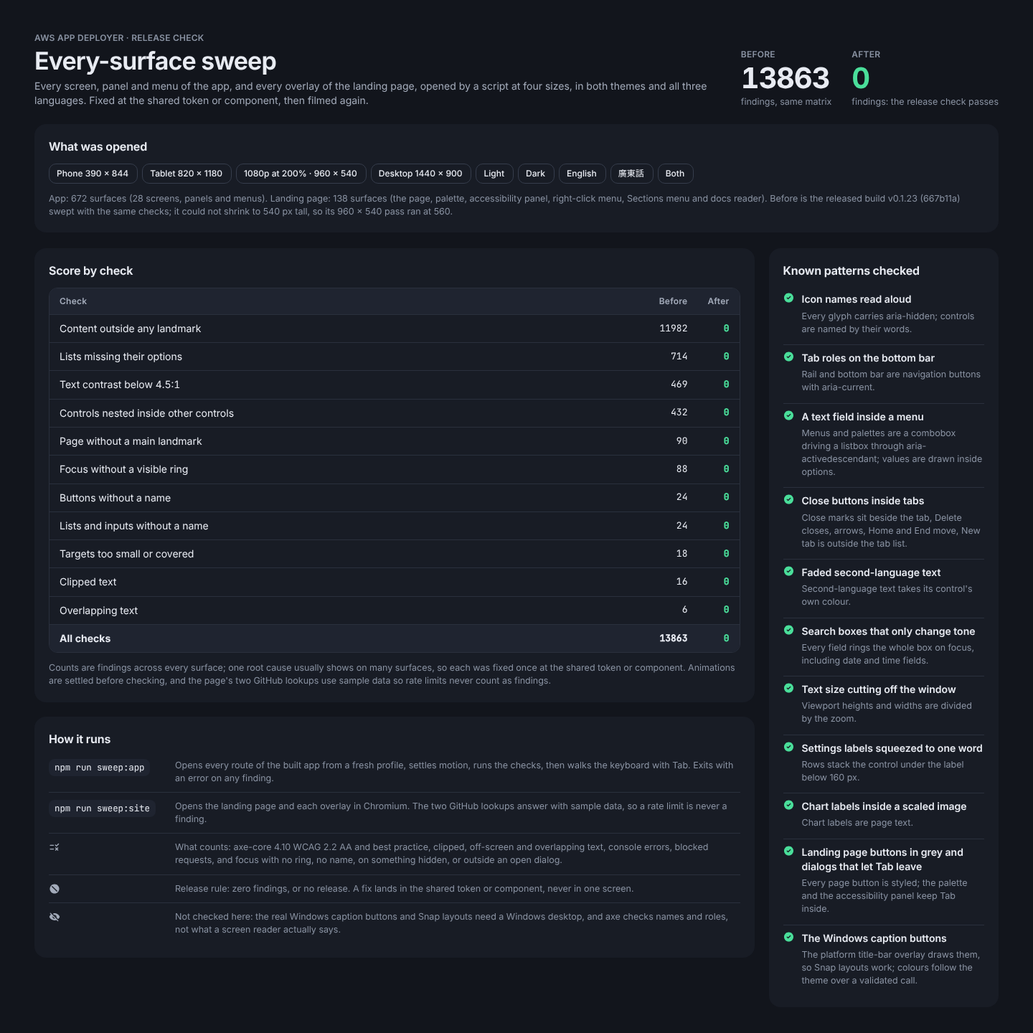
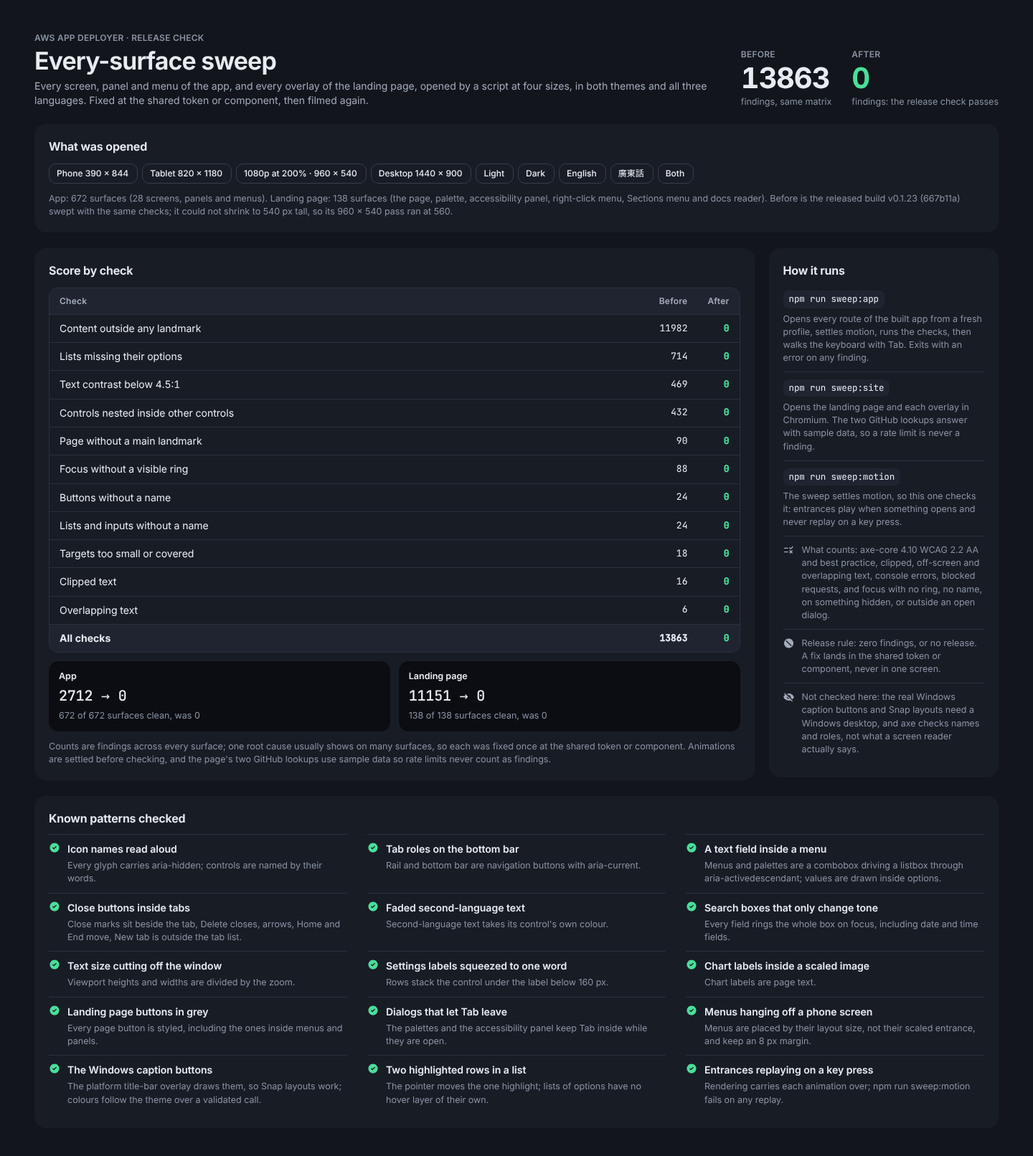
Record the final sweep, the motion check and current captures
The app was swept again on the final code at f18f2aa and came back with
672 of 672 surfaces clean; the landing page, unchanged since df615f4,
with 138 of 138. Board 26 now shows the per-set score (app 2712 to 0,
landing page 11151 to 0), the motion check, and fifteen known patterns,
including the two found by eye after the sweep. The capture provenance
names the exact commits, and the rehearsal record, design handoff and
feature audit describe the motion check. A heading in the handoff loses
its dash.

App 喺最終版本再掃一次，672 個畫面全部乾淨；網站 138 個都冇問題。設計
板加埋每邊前後比分、動畫檢查同十五個已知陷阱，截圖來源寫清楚邊個版本。

Claude-Session: https://claude.ai/code/session_019bdmMGPyKVwNhSr6Siu6GJ

diff --git a/design/artboards/Sweep.dc.html b/design/artboards/Sweep.dc.html
@@ -18,19 +18,25 @@ body{margin:0}
 .score .n{justify-content:flex-end;font-family:"JetBrains Mono",monospace;font-size:13px}
 .score > .hd.n{font-family:inherit;font-size:12px}
 .how{display:flex;flex-direction:column;gap:0}
-.how > div{display:grid;grid-template-columns:164px minmax(0,1fr);gap:12px;align-items:start;padding:10px 0}
-.how > div > .ms{justify-self:start;margin-top:1px}
+.tiles{display:grid;grid-template-columns:repeat(2,minmax(0,1fr));gap:12px}
+.tile-set{display:flex;flex-direction:column;gap:4px;padding:12px 14px;border-radius:14px;background:var(--bg)}
+.tile-set .mono{font-size:20px;font-weight:500;color:var(--tx)}
+@media (max-width:720px){.tiles{grid-template-columns:minmax(0,1fr)}}
+.how > div{display:flex;flex-direction:column;align-items:flex-start;gap:6px;padding:10px 0}
+.how > div.note{flex-direction:row;gap:10px}
+.how > div.note > .ms{flex:none;margin-top:1px}
 .how > div + div{border-top:1px solid var(--line)}
-.how .mono{justify-self:start;padding:3px 8px;border-radius:8px;background:var(--s3);color:var(--tx)}
-@media (max-width:720px){.how > div{grid-template-columns:minmax(0,1fr);gap:6px}}
+.how .mono{padding:3px 8px;border-radius:8px;background:var(--s3);color:var(--tx)}
 .how .ms{color:var(--tx2)}
 .score .zero{color:var(--ok);font-weight:600}
 .score .tot{background:var(--s3);font-weight:700}
 .big-n{font-size:40px;font-weight:700;letter-spacing:-.03em;font-variant-numeric:tabular-nums;line-height:1}
 .matrix{display:flex;flex-wrap:wrap;gap:6px}
 .matrix .chip{height:28px;font-size:12px}
-.pat{display:flex;gap:10px;align-items:flex-start;padding:8px 0}
-.pat + .pat{border-top:1px solid var(--line)}
+.pats{display:grid;grid-template-columns:repeat(3,minmax(0,1fr));column-gap:28px}
+.pat{display:flex;gap:10px;align-items:flex-start;padding:10px 0;border-top:1px solid var(--line)}
+@media (max-width:1100px){.pats{grid-template-columns:repeat(2,minmax(0,1fr))}}
+@media (max-width:720px){.pats{grid-template-columns:minmax(0,1fr)}}
 .pat .ms{color:var(--ok)}
 .shots{display:grid;grid-template-columns:repeat(3,minmax(0,1fr));gap:12px}
 .shots figure{margin:0;display:flex;flex-direction:column;gap:6px}
@@ -52,9 +58,9 @@ body{margin:0}
     <div class="matrix"><span class="chip">Phone 390 x 844</span><span class="chip">Tablet 820 x 1180</span><span class="chip">1080p at 200% · 960 x 540</span><span class="chip">Desktop 1440 x 900</span><span class="chip">Light</span><span class="chip">Dark</span><span class="chip">English</span><span class="chip">廣東話</span><span class="chip">Both</span></div>
     <span class="small">App: 672 surfaces (28 screens, panels and menus). Landing page: 138 surfaces (the page, palette, accessibility panel, right-click menu, Sections menu and docs reader). Before is the released build v0.1.23 (667b11a) swept with the same checks; it could not shrink to 540 px tall, so its 960 x 540 pass ran at 560.</span>
   </div>
-  <div class="cols" style="align-items: flex-start">
+  <div class="cols" style="align-items: stretch">
     <div class="wide">
-      <div class="card" style="gap: 12px">
+      <div class="card" style="gap: 12px; flex: 1">
         <span class="h2">Score by check</span>
         <div class="score">
           <span class="hd">Check</span><span class="hd n">Before</span><span class="hd n">After</span>
@@ -71,39 +77,50 @@ body{margin:0}
           <span>Overlapping text</span><span class="n">6</span><span class="n zero">0</span>
           <span class="tot">All checks</span><span class="n tot">13863</span><span class="n tot zero">0</span>
         </div>
-        <span class="small">Counts are findings across every surface; one root cause usually shows on many surfaces, so each was fixed once at the shared token or component. Animations are settled before checking, and the page's two GitHub lookups use sample data so rate limits never count as findings.</span>
+        <div class="tiles">
+          <div class="tile-set"><span class="small" style="font-weight: 600; color: var(--tx)">App</span><span class="mono">2712 &#8594; 0</span><span class="small">672 of 672 surfaces clean, was 0</span></div>
+          <div class="tile-set"><span class="small" style="font-weight: 600; color: var(--tx)">Landing page</span><span class="mono">11151 &#8594; 0</span><span class="small">138 of 138 surfaces clean, was 0</span></div>
+        </div>
+        <span class="small" style="margin-top: auto">Counts are findings across every surface; one root cause usually shows on many surfaces, so each was fixed once at the shared token or component. Animations are settled before checking, and the page's two GitHub lookups use sample data so rate limits never count as findings.</span>
       </div>
+    </div>
+    <div class="side">
       <div class="card" style="gap: 6px">
         <span class="h2">How it runs</span>
         <div class="how">
           <div><span class="mono">npm run sweep:app</span><span class="small">Opens every route of the built app from a fresh profile, settles motion, runs the checks, then walks the keyboard with Tab. Exits with an error on any finding.</span></div>
           <div><span class="mono">npm run sweep:site</span><span class="small">Opens the landing page and each overlay in Chromium. The two GitHub lookups answer with sample data, so a rate limit is never a finding.</span></div>
-          <div><i class="ms sm" aria-hidden="true">rule</i><span class="small">What counts: axe-core 4.10 WCAG 2.2 AA and best practice, clipped, off-screen and overlapping text, console errors, blocked requests, and focus with no ring, no name, on something hidden, or outside an open dialog.</span></div>
-          <div><i class="ms sm" aria-hidden="true">block</i><span class="small">Release rule: zero findings, or no release. A fix lands in the shared token or component, never in one screen.</span></div>
-          <div><i class="ms sm" aria-hidden="true">visibility_off</i><span class="small">Not checked here: the real Windows caption buttons and Snap layouts need a Windows desktop, and axe checks names and roles, not what a screen reader actually says.</span></div>
+          <div><span class="mono">npm run sweep:motion</span><span class="small">The sweep settles motion, so this one checks it: entrances play when something opens and never replay on a key press.</span></div>
+          <div class="note"><i class="ms sm" aria-hidden="true">rule</i><span class="small">What counts: axe-core 4.10 WCAG 2.2 AA and best practice, clipped, off-screen and overlapping text, console errors, blocked requests, and focus with no ring, no name, on something hidden, or outside an open dialog.</span></div>
+          <div class="note"><i class="ms sm" aria-hidden="true">block</i><span class="small">Release rule: zero findings, or no release. A fix lands in the shared token or component, never in one screen.</span></div>
+          <div class="note"><i class="ms sm" aria-hidden="true">visibility_off</i><span class="small">Not checked here: the real Windows caption buttons and Snap layouts need a Windows desktop, and axe checks names and roles, not what a screen reader actually says.</span></div>
         </div>
       </div>
     </div>
-    <div class="side">
-      <div class="card" style="gap: 4px">
-        <span class="h2" style="padding-bottom: 6px">Known patterns checked</span>
-        <div class="pat"><i class="ms sm fill" aria-hidden="true">check_circle</i><span class="stack"><span style="font-weight: 600">Icon names read aloud</span><span class="small">Every glyph carries aria-hidden; controls are named by their words.</span></span></div>
-        <div class="pat"><i class="ms sm fill" aria-hidden="true">check_circle</i><span class="stack"><span style="font-weight: 600">Tab roles on the bottom bar</span><span class="small">Rail and bottom bar are navigation buttons with aria-current.</span></span></div>
-        <div class="pat"><i class="ms sm fill" aria-hidden="true">check_circle</i><span class="stack"><span style="font-weight: 600">A text field inside a menu</span><span class="small">Menus and palettes are a combobox driving a listbox through aria-activedescendant; values are drawn inside options.</span></span></div>
-        <div class="pat"><i class="ms sm fill" aria-hidden="true">check_circle</i><span class="stack"><span style="font-weight: 600">Close buttons inside tabs</span><span class="small">Close marks sit beside the tab, Delete closes, arrows, Home and End move, New tab is outside the tab list.</span></span></div>
-        <div class="pat"><i class="ms sm fill" aria-hidden="true">check_circle</i><span class="stack"><span style="font-weight: 600">Faded second-language text</span><span class="small">Second-language text takes its control&#x27;s own colour.</span></span></div>
-        <div class="pat"><i class="ms sm fill" aria-hidden="true">check_circle</i><span class="stack"><span style="font-weight: 600">Search boxes that only change tone</span><span class="small">Every field rings the whole box on focus, including date and time fields.</span></span></div>
-        <div class="pat"><i class="ms sm fill" aria-hidden="true">check_circle</i><span class="stack"><span style="font-weight: 600">Text size cutting off the window</span><span class="small">Viewport heights and widths are divided by the zoom.</span></span></div>
-        <div class="pat"><i class="ms sm fill" aria-hidden="true">check_circle</i><span class="stack"><span style="font-weight: 600">Settings labels squeezed to one word</span><span class="small">Rows stack the control under the label below 160 px.</span></span></div>
-        <div class="pat"><i class="ms sm fill" aria-hidden="true">check_circle</i><span class="stack"><span style="font-weight: 600">Chart labels inside a scaled image</span><span class="small">Chart labels are page text.</span></span></div>
-        <div class="pat"><i class="ms sm fill" aria-hidden="true">check_circle</i><span class="stack"><span style="font-weight: 600">Landing page buttons in grey and dialogs that let Tab leave</span><span class="small">Every page button is styled; the palette and the accessibility panel keep Tab inside.</span></span></div>
-        <div class="pat"><i class="ms sm fill" aria-hidden="true">check_circle</i><span class="stack"><span style="font-weight: 600">The Windows caption buttons</span><span class="small">The platform title-bar overlay draws them, so Snap layouts work; colours follow the theme over a validated call.</span></span></div>
-      </div>
+  </div>
+  <div class="card" style="gap: 4px">
+    <span class="h2" style="padding-bottom: 6px">Known patterns checked</span>
+    <div class="pats">
+      <div class="pat"><i class="ms sm fill" aria-hidden="true">check_circle</i><span class="stack"><span style="font-weight: 600">Icon names read aloud</span><span class="small">Every glyph carries aria-hidden; controls are named by their words.</span></span></div>
+      <div class="pat"><i class="ms sm fill" aria-hidden="true">check_circle</i><span class="stack"><span style="font-weight: 600">Tab roles on the bottom bar</span><span class="small">Rail and bottom bar are navigation buttons with aria-current.</span></span></div>
+      <div class="pat"><i class="ms sm fill" aria-hidden="true">check_circle</i><span class="stack"><span style="font-weight: 600">A text field inside a menu</span><span class="small">Menus and palettes are a combobox driving a listbox through aria-activedescendant; values are drawn inside options.</span></span></div>
+      <div class="pat"><i class="ms sm fill" aria-hidden="true">check_circle</i><span class="stack"><span style="font-weight: 600">Close buttons inside tabs</span><span class="small">Close marks sit beside the tab, Delete closes, arrows, Home and End move, New tab is outside the tab list.</span></span></div>
+      <div class="pat"><i class="ms sm fill" aria-hidden="true">check_circle</i><span class="stack"><span style="font-weight: 600">Faded second-language text</span><span class="small">Second-language text takes its control&#x27;s own colour.</span></span></div>
+      <div class="pat"><i class="ms sm fill" aria-hidden="true">check_circle</i><span class="stack"><span style="font-weight: 600">Search boxes that only change tone</span><span class="small">Every field rings the whole box on focus, including date and time fields.</span></span></div>
+      <div class="pat"><i class="ms sm fill" aria-hidden="true">check_circle</i><span class="stack"><span style="font-weight: 600">Text size cutting off the window</span><span class="small">Viewport heights and widths are divided by the zoom.</span></span></div>
+      <div class="pat"><i class="ms sm fill" aria-hidden="true">check_circle</i><span class="stack"><span style="font-weight: 600">Settings labels squeezed to one word</span><span class="small">Rows stack the control under the label below 160 px.</span></span></div>
+      <div class="pat"><i class="ms sm fill" aria-hidden="true">check_circle</i><span class="stack"><span style="font-weight: 600">Chart labels inside a scaled image</span><span class="small">Chart labels are page text.</span></span></div>
+      <div class="pat"><i class="ms sm fill" aria-hidden="true">check_circle</i><span class="stack"><span style="font-weight: 600">Landing page buttons in grey</span><span class="small">Every page button is styled, including the ones inside menus and panels.</span></span></div>
+      <div class="pat"><i class="ms sm fill" aria-hidden="true">check_circle</i><span class="stack"><span style="font-weight: 600">Dialogs that let Tab leave</span><span class="small">The palettes and the accessibility panel keep Tab inside while they are open.</span></span></div>
+      <div class="pat"><i class="ms sm fill" aria-hidden="true">check_circle</i><span class="stack"><span style="font-weight: 600">Menus hanging off a phone screen</span><span class="small">Menus are placed by their layout size, not their scaled entrance, and keep an 8 px margin.</span></span></div>
+      <div class="pat"><i class="ms sm fill" aria-hidden="true">check_circle</i><span class="stack"><span style="font-weight: 600">The Windows caption buttons</span><span class="small">The platform title-bar overlay draws them, so Snap layouts work; colours follow the theme over a validated call.</span></span></div>
+      <div class="pat"><i class="ms sm fill" aria-hidden="true">check_circle</i><span class="stack"><span style="font-weight: 600">Two highlighted rows in a list</span><span class="small">The pointer moves the one highlight; lists of options have no hover layer of their own.</span></span></div>
+      <div class="pat"><i class="ms sm fill" aria-hidden="true">check_circle</i><span class="stack"><span style="font-weight: 600">Entrances replaying on a key press</span><span class="small">Rendering carries each animation over; npm run sweep:motion fails on any replay.</span></span></div>
     </div>
   </div>
 </div>
 </x-dc>
-<script type="text/x-dc" data-dc-script data-props='{"theme":{"editor":"enum","options":["dark","light"],"default":"dark"},"$preview":{"width":1440,"height":1440}}'>
+<script type="text/x-dc" data-dc-script data-props='{"theme":{"editor":"enum","options":["dark","light"],"default":"dark"},"$preview":{"width":1440,"height":1612}}'>
 class Component extends DCLogic {
 renderVals() {
 return { themeClass: (this.props.theme ?? 'dark') === 'light' ? 'light' : '' };

diff --git a/docs/FEATURE-AUDIT.md b/docs/FEATURE-AUDIT.md
@@ -45,7 +45,7 @@ Evidence namespaces: **Baseline** means the original commit; **Desktop delta** m
 | `rich-controls` | Partial | App/site | Settings have controls, but palette results and other values lack shared rich-control bindings and coverage inventory. |
 | `guided-forms` | Partial | App/site | Baseline deployment wizard plus Interaction delta settings explanations/practice steps exist. Every-element contextual wizard, shared direct-action validation, control complexity inventory and textbox clear controls remain incomplete. |
 | `extension-support` | Missing | App | Added to the shared feature list on 2026-11-06: extension points tailored to deploying (targets and checks), a versioned manifest per extension folder, an out-of-process protocol, declared permissions with consent on first use and on change, run and answer limits, a manager, built-in defaults, an author article with samples, and proof. None of it exists yet. |
-| `every-surface-sweep` | Partial | App/site | scripts/sweep runs axe-core WCAG 2.2 AA and best-practice rules, console and blocked-content checks, clipped, off-screen and overlapping text, and a keyboard walk over every capture route of the app and every overlay of the landing page, at phone, tablet, 960 x 540 and desktop sizes, in both themes and all three languages. Run before each interface release; on 2026-11-06 it went from 13863 findings on v0.1.23 to zero (app 672 of 672 surfaces clean, landing page 138 of 138), with the score on design board 26 and in design/REHEARSAL.md. Missing: the browser companion's access screen is not in the script (checked by hand: clean apart from one browser log line for the expected 401 before sign-in), and the release workflow does not run the sweep. |
+| `every-surface-sweep` | Partial | App/site | scripts/sweep runs axe-core WCAG 2.2 AA and best-practice rules, console and blocked-content checks, clipped, off-screen and overlapping text, and a keyboard walk over every capture route of the app and every overlay of the landing page, at phone, tablet, 960 x 540 and desktop sizes, in both themes and all three languages. Run before each interface release; on 2026-11-06 it went from 13863 findings on v0.1.23 to zero (app 672 of 672 surfaces clean, landing page 138 of 138), with the score on design board 26 and in design/REHEARSAL.md. `npm run sweep:motion` separately fails if an entrance animation replays on a key press, which the settled sweep cannot see. Missing: the browser companion's access screen is not in the script (checked by hand: clean apart from one browser log line for the expected 401 before sign-in), and the release workflow does not run the sweep. |
 | `windows-title-bar` | Partial | App | The frameless window now uses the platform title-bar overlay, so Windows draws its own caption buttons and Snap layouts work; overlay colours follow the theme through a validated IPC call; the bar is a drag region with clickable parts opted out. Not yet checked on a real Windows desktop (release captures do not include native caption buttons). |
 | `info-icon-guidance` | Partial | App/site | Every settings control now has its info button directly above it in one slot, with a 44 px touch target, a hover and focus tooltip, focus return to the exact button, Lib.EXPLAIN text and a practice step (pitch added). Missing: info buttons outside Settings (wizard, tools, servers, AI, sketch), the landing page's controls, Cantonese guidance text, worked examples with a playground per control, and direct/wizard parity proof. |
 | `settings-explanations` | Partial | App/site | Interaction delta: store exposes defaults/sources; info panels state file/default provenance, with SETTINGS_ON_SCREEN/EXPLAIN coverage tests. Every settings element, actual defaults after reset/reload and localized built acceptance remain incomplete. |

diff --git a/design/REHEARSAL.md b/design/REHEARSAL.md
@@ -159,6 +159,20 @@ Each was fixed once, in the shared token or component:
 - Overlap and clipping are measured on the part of a box that can actually be seen, cut by every clipping ancestor, and the body of a closed disclosure is skipped. Without this, scrolled lists reported text overlapping text that was scrolled out of view.
 - Capture and sweep runs closed a confirmation by removing its element but left it open in the kit's state, so every later key press was ignored and the keyboard walk saw nothing. They now close it through the kit.
 
+### After the sweep: what the eyes found
+
+The sweep settles every animation and measures still frames, so three things only showed up by looking at fresh captures and by using the app:
+
+1. Two highlighted rows in the light theme. In a menu, the row under a resting pointer took a hover layer that looked stronger than the real keyboard cursor. Menus and both command palettes now have one highlight: the pointer moves it, lists of options have no separate hover layer, and a touch does not move it. A unit test pins the menu behaviour and was watched failing with the fix removed; a browser check on the landing page and an Electron check in the app confirmed one highlight in both themes.
+2. Entrance animations replayed on every key press. Each render rebuilt the screen, so the command palette faded and slid in again on every arrow key and letter, and headings and cards rose again while typing in a search box. Rendering now carries each animation's progress over to the same element in the new screen; opening something or navigating still plays its entrance. `npm run sweep:motion` checks this: with the fix switched off it reported the palette, the page and the rail pill replaying, and with it on it passes.
+3. On a narrow window the tab strip cut a tab mid-word at its edge, with no sign that more tabs were there. The strip's edges now fade where tabs are hidden, and the active tab is kept clear of the fade. Board 18 draws the current tab strip.
+
+Both sweeps were run again on the final code: the app at `f18f2aa` came back with 672 of 672 surfaces clean, and the landing page at `df615f4` (unchanged since) with 138 of 138 clean. `npm run sweep:motion` passes on the final code.
+
+### Browser companion access screen
+
+Checked by hand with the same checks at the four sizes in both themes: no axe, geometry or keyboard findings, and one console line on every surface, the browser's own log of the 401 answer to the request the page makes before sign-in. Left as is, because 401 is the correct answer to an unauthenticated request. The screen is not yet part of the sweep script.
+
 ### Not checked
 
 - The real Windows caption buttons and Snap layouts: they need a Windows desktop. The release run's Windows captures are the next look.

diff --git a/docs/evidence/interface/README.md b/docs/evidence/interface/README.md
@@ -6,7 +6,7 @@ Current captures of the desktop app and the landing page after the final polish 
 
 - App: the app's own capture mode (`electron . --screenshots=<dir>`), Electron 45.2.3, run from source on Linux under a virtual display (`xvfb-run`), at a 1320 x 860 window for desktop frames and 420 x 860 for narrow frames, scale 1, light theme (the capture machine has no theme preference, so System resolves to light). The capture mode uses a fresh profile, so no saved settings leak in.
 - Landing page: `site/` served locally and opened in headless Chromium through Playwright 1.63.0, at 1440 x 900 and 390 x 844, with the dark colour scheme.
-- Source: commit `df615f4`. The app and landing page sources (`src/`, `site/`) did not change between that commit and the commit that adds these files.
+- Source: the app frames were captured at commit `f18f2aa` and the landing page frames at `df615f4`; the landing page did not change between the two. The app frames came out byte for byte the same as a capture taken at `df615f4`, because the capture mode turns motion off and the change between them only concerns motion. Neither source (`src/`, `site/`) changed before the commit that adds these files.
 - Linux draws no Windows caption buttons, so the right end of the app's title bar is empty in these frames. On Windows the system draws minimise, maximise and close there, with Snap layouts. Release builds are captured on a Windows runner by the release workflow.
 
 ## Files

diff --git a/README.md b/README.md
@@ -38,6 +38,8 @@ On Windows, `download-dependencies.bat`, `build.bat` (tests, then run) and `buil
 
 `npm run sweep:site` does the same for the landing page and its overlays (palette, accessibility panel, right-click menu, Sections menu, docs reader). Serve `site/` first, for example `python3 -m http.server 8765 -d site`; it needs Playwright with Chromium. The page's GitHub lookups are answered from sample data so the sweep never depends on rate limits.
 
+`npm run sweep:motion` checks what the sweep cannot, because the sweep settles animations first: it launches the app with a throwaway profile, presses keys in the command palette, the settings search and a settings panel, and fails if any entrance animation plays again on a key press, or if opening the palette does not play its entrance. It needs Playwright and, on Linux, a display such as `xvfb-run`.
+
 `SWEEP_ROUTES`, `SWEEP_SIZES`, `SWEEP_LANGS` (and `SWEEP_SURFACES` for the site) narrow a run; `SWEEP_SHOTS=1` saves a capture of each English surface. Fix findings at the shared token or component, not per screen, then look at the captures as well: the sweep finds what eyes skip, and eyes find what it cannot measure.
 
 ## What a deployment creates

diff --git a/design/HANDOFF.md b/design/HANDOFF.md
@@ -54,7 +54,7 @@ This is the design delivery the root [handoff](../HANDOFF.md) asks for. Start wi
 - Every select shows its chevron; every context menu row that holds a control changes the real setting in place and keeps the menu open; only the keyboard cursor row is strongly highlighted.
 - Panels and menus stay inside the window at every width, and page changes cross-fade only when motion is allowed.
 - Menus and palettes are a filter box driving a list of options; a value inside an option is drawn, not a nested control. Tabs close with Delete and move with the arrow keys, and New tab sits outside the tab list.
-- The every-surface sweep comes back with zero findings before an interface release (`npm run sweep:app`, `npm run sweep:site`). A finding is fixed in the shared token or component.
+- The every-surface sweep comes back with zero findings before an interface release (`npm run sweep:app`, `npm run sweep:site`), and `npm run sweep:motion` passes: entrances play when something opens and never replay on a key press. A finding is fixed in the shared token or component.
 
 ## Stageshow record
 

diff --git a/HANDOFF.md b/HANDOFF.md
@@ -114,7 +114,7 @@ Current Compose support accepts exactly one application service with a simple lo
 
 The backend's automatic repair currently covers bounded retries of classified transient read-only AWS failures and ECS deployment circuit-breaker rollback. It does not yet install prerequisites, fix source code, change IAM permissions, repair billing, or implement general self-healing. Custom-domain HTTPS needs an existing matching ACM certificate and DNS directed to the ALB; the normal HTTP path needs neither. Do not claim a working endpoint or native desktop release without live evidence.
 
-## Browser companion handoff — 2026-11-06
+## Browser companion handoff, 2026-11-06
 
 The approved test route is the existing renderer served by `src/web/server.js`, with `src/renderer/browser.js` adapting the named desktop API to authenticated HTTP. Coordinate against the actual filenames and API below; preserve Electron behavior. The browser uses AWS console `aws login --remote`, not the desktop SSO callback.
 
